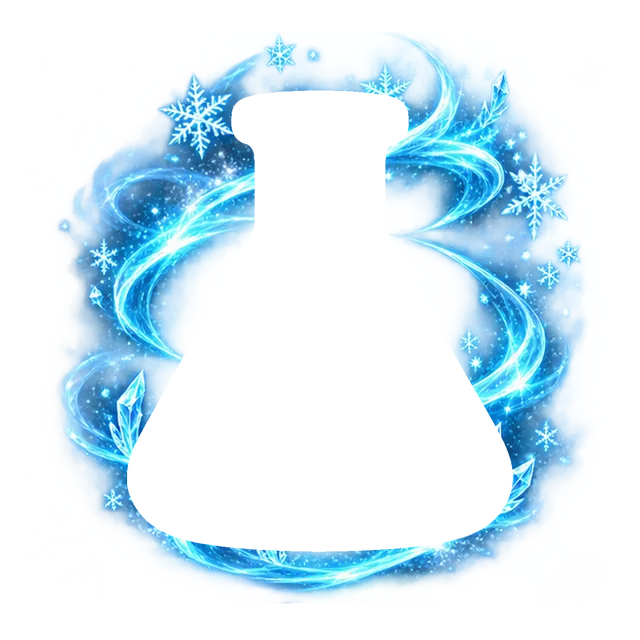
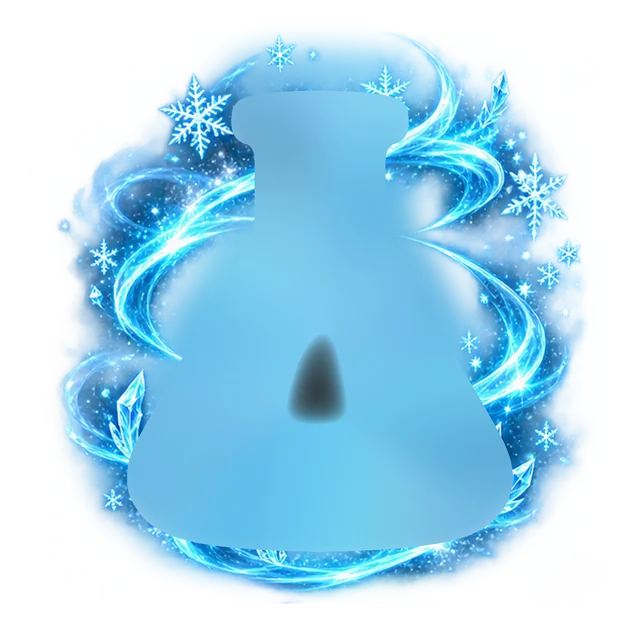
Zoltan's Flask: painted Flubb faces; aura gap filled with matching glow
Claude-Session: https://claude.ai/code/session_01QqMC3jV4Jm9bLjV1D99fiy

diff --git a/oneshots/this-and-that/flask-game/index.html b/oneshots/this-and-that/flask-game/index.html
@@ -94,14 +94,14 @@ const LOOK={};for(const c of CATS)for(const v in V[c])for(const a of V[c][v][1])
 let S={};try{S=JSON.parse(localStorage.getItem('zoltan-flask-v1')||'{}')||{}}catch(e){S={}}
 const save=()=>{try{localStorage.setItem('zoltan-flask-v1',JSON.stringify(S))}catch(e){}};
 
-const ORDER=['aura','essence','ichor','heart','BASE','skin','dust'];
+const ORDER=['aura','essence','ichor','heart','BASE','FACE','skin','dust'];
 const ANIM={aura:'hz',heart:'pl',dust:'tw'};
 function retry(im){const n=+(im.dataset.n||0)+1;im.dataset.n=n;if(n>5){im.style.visibility='hidden';return}
  const base=im.getAttribute('src').split('?')[0];setTimeout(()=>{im.src=base+'?r='+n+'-'+Date.now()},400*n)}
 const IMG=(src,cls='')=>`<img class="${cls}" src="img/${src}.webp" alt="" onerror="retry(this)">`;
 function render(el,m,st){const anyR=CATS.some(c=>st[c]==='rainbow');
- el.innerHTML=ORDER.map(c=>c==='BASE'?IMG(m==='flask'?'flask-blank':(anyR?'ooze-blank-happy':'ooze-blank-angry')):(st[c]?IMG(`${m}-${c}-${st[c]}`,ANIM[c]||''):'')).join('')}
-(function preload(){const L=['flask-blank','ooze-blank-angry','ooze-blank-happy','rainbow-pet'];
+ el.innerHTML=ORDER.map(c=>c==='FACE'?(m==='ooze'?IMG(anyR?'ooze-face-happy':'ooze-face-angry'):''):c==='BASE'?IMG(m==='flask'?'flask-blank':(anyR?'ooze-blank-happy':'ooze-blank-angry')):(st[c]?IMG(`${m}-${c}-${st[c]}`,ANIM[c]||''):'')).join('')}
+(function preload(){const L=['flask-blank','ooze-blank-angry','ooze-blank-happy','ooze-face-angry','ooze-face-happy','rainbow-pet'];
  for(const m of ['flask','ooze'])for(const c of CATS)for(const v in V[c])L.push(`${m}-${c}-${v}`);
  let i=0;const next=()=>{if(i>=L.length)return;const im=new Image(),src=L[i++];let t=0;
   im.onload=next;im.onerror=()=>{if(++t<4)setTimeout(()=>{im.src=`img/${src}.webp?p=${t}`},500*t);else next()};im.src=`img/${src}.webp`};
